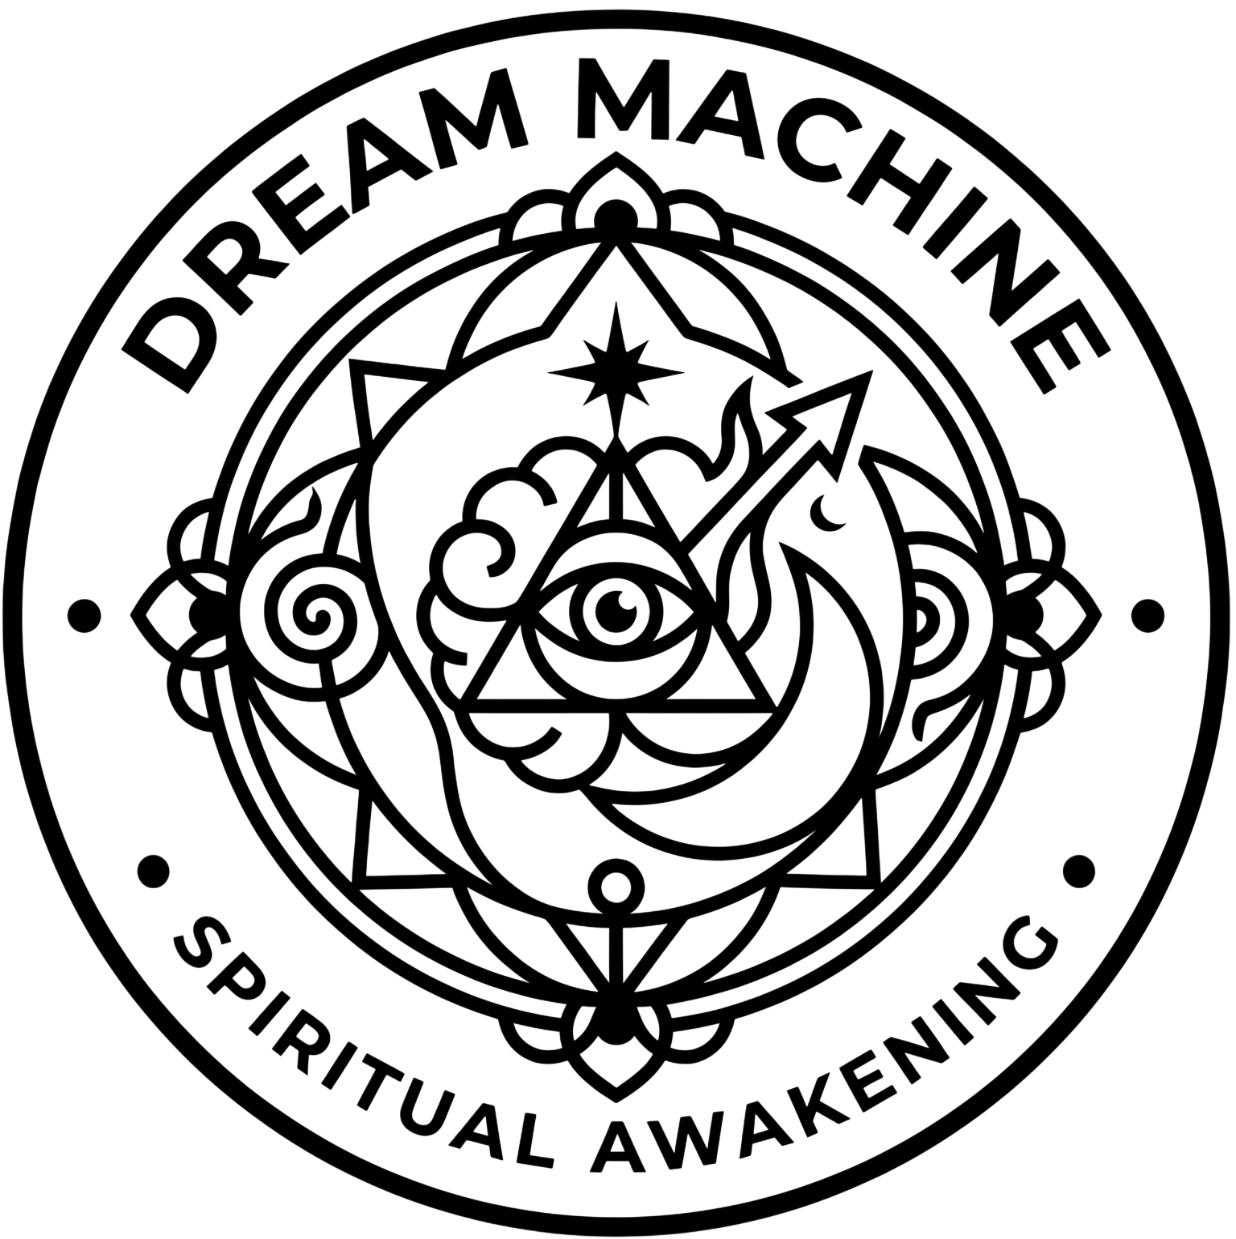
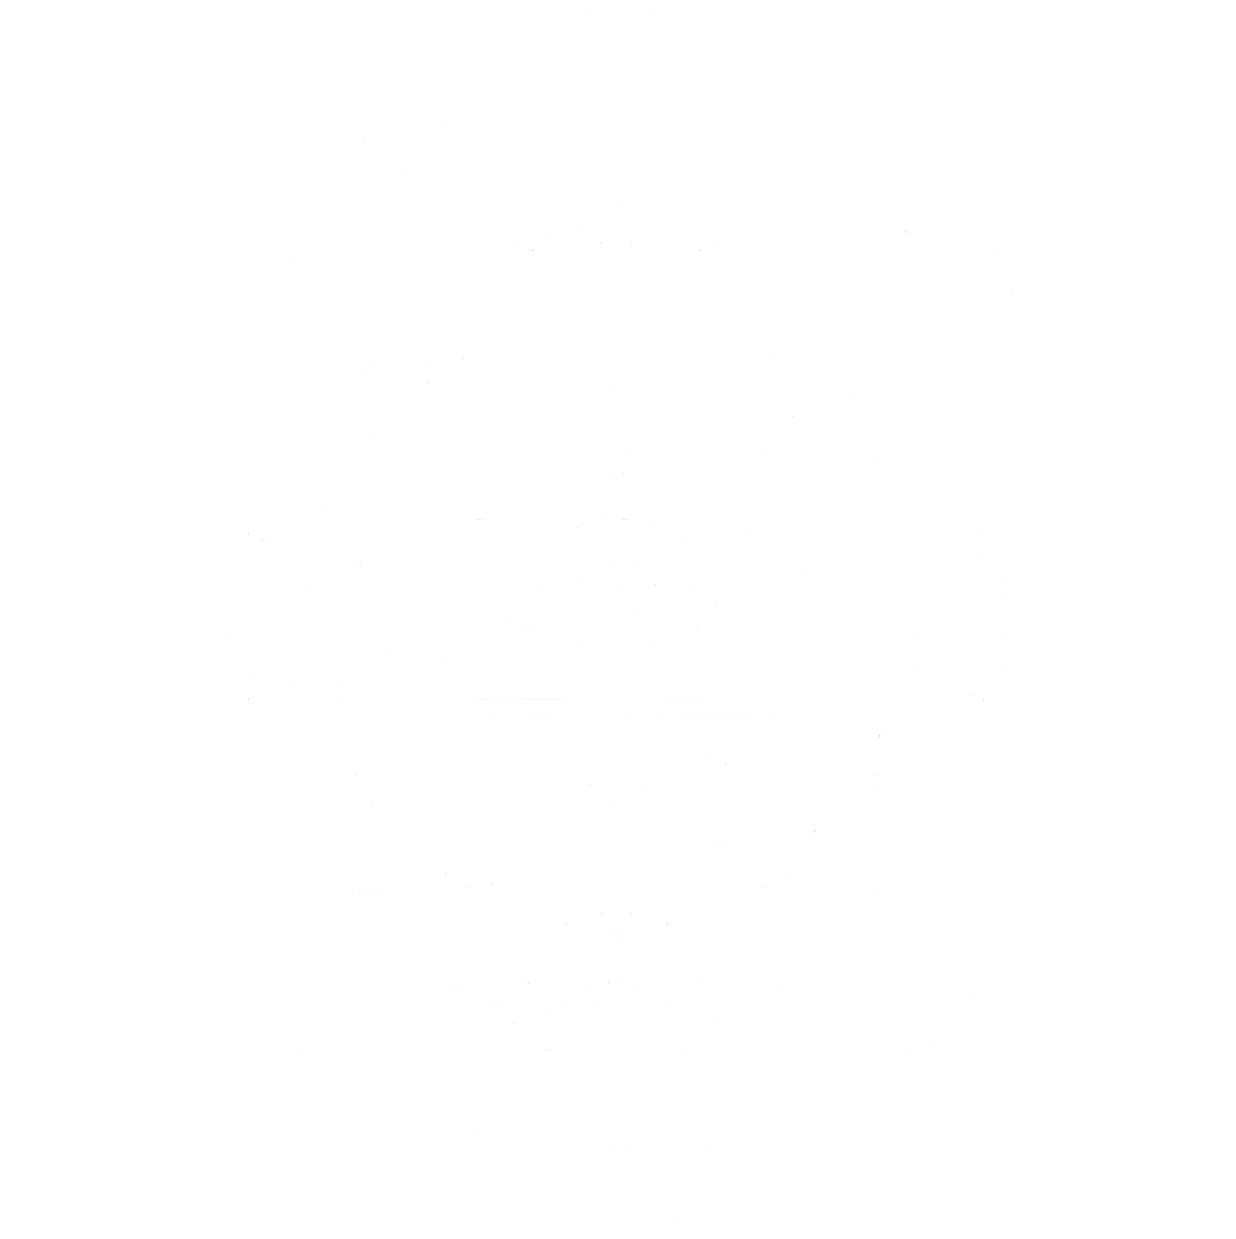
añadida imagen real

Changed region(s): [[0.0, 0.0, 1.0, 1.0], [0.8608, 0.6747, 0.8916, 0.7361], [0.8301, 0.8281, 0.8608, 0.8588]]

diff --git a/js/apps-data.js b/js/apps-data.js
@@ -434,7 +434,7 @@ const appsData = [
         url: "https://play.google.com/store/apps/details?id=com.cha0smagick.dreammachine",
         status: "available",
         description: "Master the art of lucid dreaming with induction protocols, dream journal, reality checks, and binaural beats. 🌙",
-        image: "assets/images/lucid.webp",
+        image: "assets/images/lucid.png",
         seo: {
             title: "Dream Machine: Lucid Dreaming App | Induction, Journal & Reality Checks",
             description: "Train your mind to wake within the dream. Lucid dreaming induction, dream journal, reality checks, binaural beats and MILD/WILD techniques. Download the ultimate lucid dream app for Android.",

diff --git a/apps/dream-machine.html b/apps/dream-machine.html
@@ -156,7 +156,6 @@
         <section class="app-details">
             <div class="detail-header-layout">
                 <picture>
-    <source srcset="../assets/images/lucid.webp" type="image/webp">
     <img src="../assets/images/lucid.png" alt="Dream Machine: Lucid Dreaming" loading="eager" class="detail-main-image" width="120" height="120">
 </picture>
                 <div class="detail-header-info">